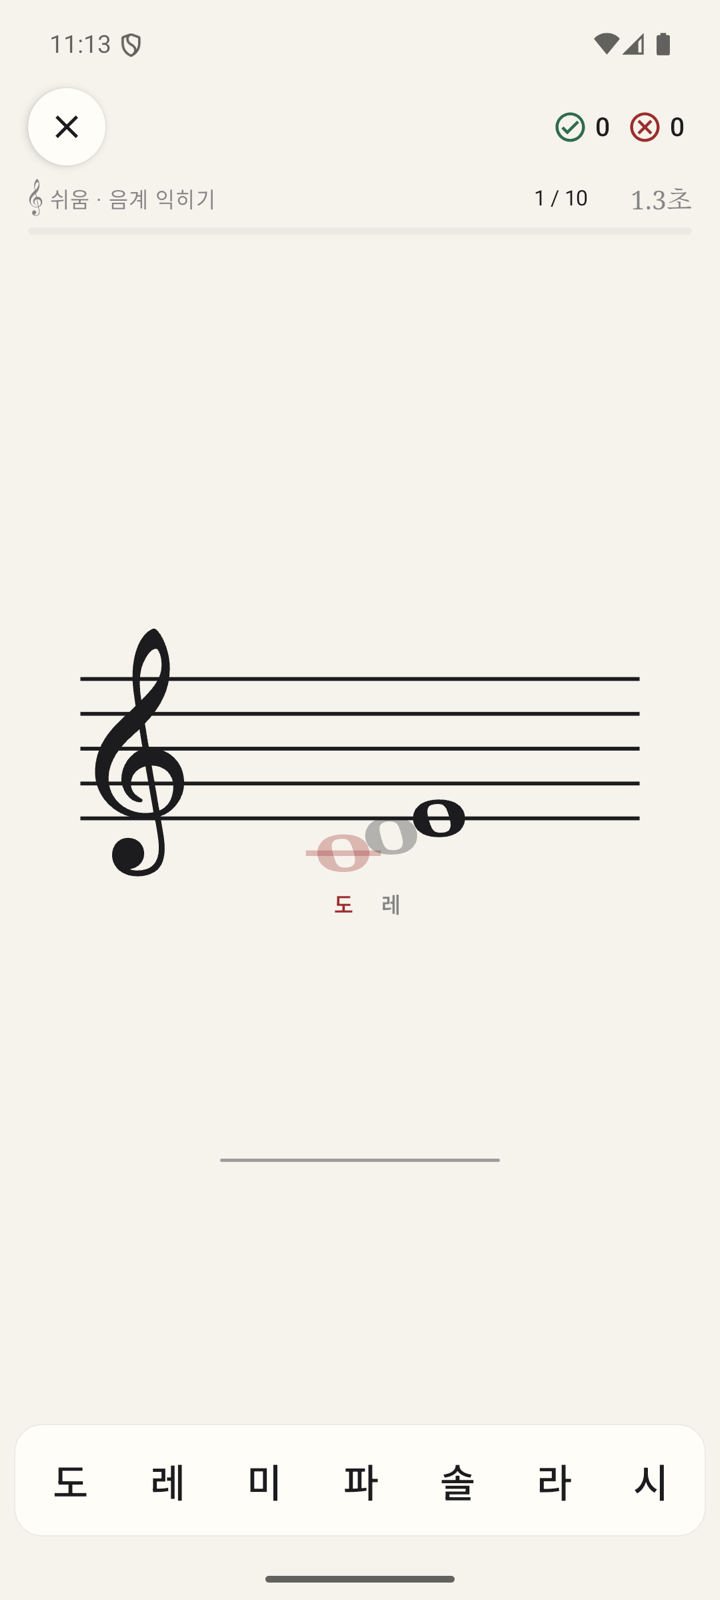
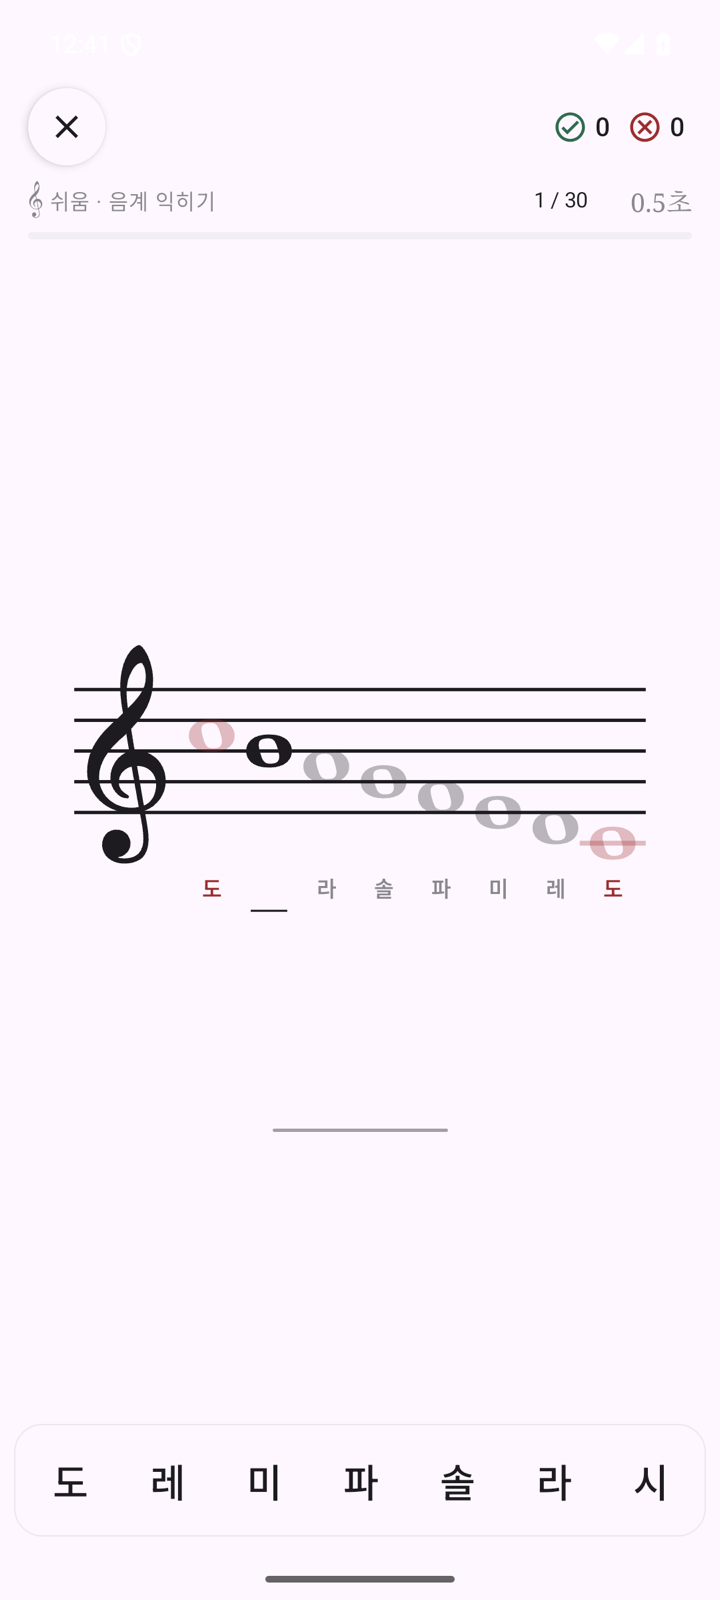
improve: blog — 계이름 퀴즈 연습 축 글 (merge 2026-11-01)
Claude-Session: https://claude.ai/code/session_01Weh5pnFNQsc1yPJWpE3F9Z

diff --git a/src/content/blog/en/2026-09-21-notequiz-practice-modes.md b/src/content/blog/en/2026-09-21-notequiz-practice-modes.md
@@ -1,6 +1,6 @@
 ---
 title: "The note quiz now asks how notes come, not just which"
-date: 2026-10-31T23:19:52+09:00
+date: 2026-11-01T00:47:59+09:00
 app: "notequiz"
 tags: ["devlog", "design", "swiftui", "android"]
 summary: "Range only says which notes can appear. Two more axes pick how: plain reading or counting from do, and which notes come up. Splitting by octave lost, then the chain of thirds, then the five-row radio list."
@@ -203,11 +203,11 @@ Stage 1 is now *Read the scale*. It used to show each do in the range and wait f
 
 The first card now stacks one octave from do, eight notes, rising or falling at random.
 
-![The first card: eight notes climb from do to do, with their names in one row under the staff](/blog/notequiz-practice-modes/android-scale-first-card.png)
+![The first card: eight separated notes run from do to do, with their names in one row under the staff](/blog/notequiz-practice-modes/android-scale-first-card.png)
 
-*Got it* turns it into a question. One of the eight is drawn in ink, the path from do up to it stays faint, and the asked note has no name, so you count along the path. If the answer is do, there is no path to keep. The card appears whole and the question clock starts at zero.
+*Got it* turns it into a question. One of the eight is drawn in ink, the other seven turn faint where they stand, and the asked note's name is blank. The card appears whole and the question clock starts at zero.
 
-![The asking card: do and re stay faint, the next note is solid, and the seven answer keys sit below](/blog/notequiz-practice-modes/android-scale-asking-card.png)
+![The asking card: the second of eight notes is solid, the rest are faint, and its blank name cell is underlined](/blog/notequiz-practice-modes/android-scale-asking-card.png)
 
 With something to answer, stage 1 lost its exceptions: it now has a question count, clock, score, answer line and saved record.
 
@@ -218,6 +218,23 @@ With something to answer, stage 1 lost its exceptions: it now has a question cou
 The Android port hit one trap. The stage's stored value changes with its name, and this app's JSON setup (`coerceInputValues`) turns an unknown value into the field's default with no error. That default is stage 5, so a plain rename would have silently moved stage 1 players to the hardest stage. A round-trip test passes either way. The old name stays readable through `@JsonNames`, and a test now decodes the literal old value.
 
 The store screenshots and promo video still show the old stage 1 and need retaking.
+
+## 2026-11-01 — The asking card keeps the whole octave
+
+A day of use showed two problems. The notes sat too close, and the asking card cut the octave at the asked note, so the picture changed right after you had read it.
+
+The asking card now keeps all eight notes in place, with only the asked one in ink.
+
+- **A scale's notes stand 1.25 head widths apart.** The ladders keep their 0.92, which only exists for one stepped head. The cost is a smaller stage 1 staff.
+- **The blank name gets an underline, always black.** The name row is red only for do, so a red underline would give the answer away.
+- **The answer line went from 160 to 100,** just wider than the grading mark on `Sol`, the widest answer.
+
+![The card asking the first do: only the first note is solid, and the other do's name stays visible](/blog/notequiz-practice-modes/android-scale-asked-do.png)
+
+From stage 2 on, a do answer removes every hint, because drawing the do would give it away. Stage 1 now breaks that rule: the other do's name stays on screen, and seven named cells make the blank solvable by elimination. Stage 1 is about tying names to places, so we took that cost to keep every card the same picture.
+
+The store screenshots still show the older stage 1.
+
 
 ## History
 
@@ -232,3 +249,4 @@ The store screenshots and promo video still show the old stage 1 and need retaki
 - 2026-10-30 — weak-note practice from stage 3: notice on stages 1–2 and the stage rises on confirm; the auto-scroll follows the moving bottom (iOS and Android)
 - 2026-10-30 — stage raise reversed: weak focus adds the covering range on stages 1–2 and the weak notes themselves from stage 3 (iOS and Android)
 - 2026-10-31 — stage 1 becomes Read the scale: an in-range octave, then one note asked with the path kept; every stage is graded and saved (iOS and Android)
+- 2026-11-01 — the asking card keeps the whole octave, a black underline on the blank name, wider scale spacing, a 100 answer line (iOS and Android)
